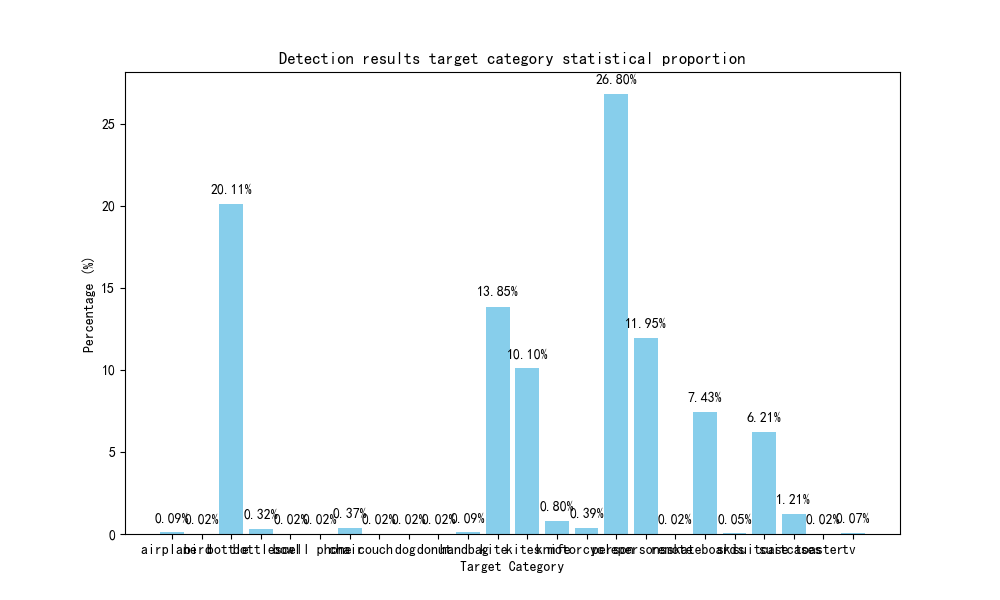
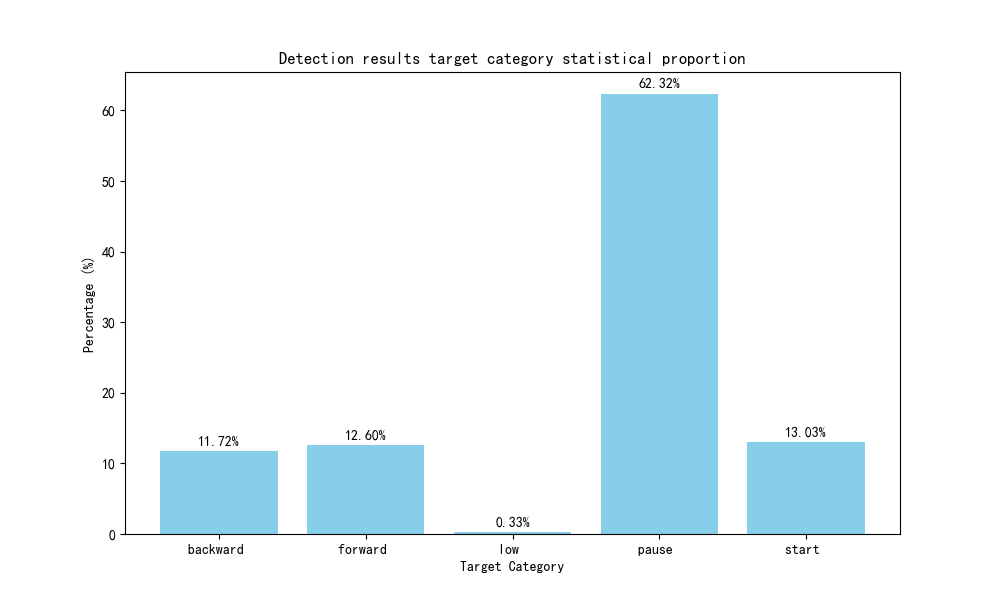
后端与数据库

diff --git a/backend/server.py b/backend/server.py
@@ -2,10 +2,18 @@ from flask import Flask, request, jsonify, Response
 import jwt
 from jwt.exceptions import ExpiredSignatureError, InvalidTokenError
 import cv2
+from sqlalchemy import create_engine
+from sqlalchemy.orm import sessionmaker
+
+from data.models import GestureMap, OperationLog, DeviceTypeEnum, ResultEnum
 
 flask_app = Flask(__name__)
 SECRET_KEY = 'SGMS_Secret_Key'
 
+# 创建数据库引擎和会话（请根据实际数据库修改 URL）
+DATABASE_URL = 'sqlite:///data/database.db'  # 你可以换成 'mysql://user:pass@host/db' 等
+engine = create_engine(DATABASE_URL, echo=True)
+SessionLocal = sessionmaker(bind=engine)
 
 camera = cv2.VideoCapture(0)
 
@@ -55,8 +63,48 @@ def upload_result():
     data = request.get_json()
     print("接收到检测结果:", data)
 
-    # 假设数据格式：{"objects": [{"label": "person", "confidence": 0.98}, ...]}
-    return jsonify({"message": "检测结果上传成功"}), 200
+    gesture_labels = {
+        "start": 0,
+        "pause": 1,
+        "forward": 2,
+        "backward": 3,
+        "high": 4,
+        "low": 5
+    }
+
+    session = SessionLocal()
+    try:
+        # 获取检测结果 格式为{"xxx": 1}
+        gesture_name = list(data.keys())[0] if data else None
+        gesture_name = gesture_name.strip() if gesture_name else None
+        print("检测到的手势:", gesture_name)
+
+        if not gesture_name:
+            return jsonify({"error": "未知手势"}), 400
+
+        # 查找 gesture_id 和操作类型
+        gesture = session.query(GestureMap).filter_by(gesture_name=gesture_name).first()
+        if not gesture:
+            return jsonify({"error": "手势未注册"}), 404
+
+        # 写入 operation_log
+        log = OperationLog(
+            gesture_id=gesture_labels[gesture_name],  # 假设 gesture_name 对应的 ID
+            operation_type=gesture.operation_type,
+            device_type=DeviceTypeEnum.tv,  # 可根据实际需求动态指定
+            result=ResultEnum.success,  # 假设检测成功
+            detail=f"检测到手势：{gesture_name}"
+        )
+        session.add(log)
+        session.commit()
+
+        return jsonify({"message": f"手势“{gesture_name}”记录成功"}), 200
+    except Exception as e:
+        session.rollback()
+        print("数据库写入出错:", e)
+        return jsonify({"error": "服务端异常"}), 500
+    finally:
+        session.close()
 
 
 @flask_app.route('/')

diff --git a/data/db_init.py b/data/db_init.py
@@ -1,5 +1,60 @@
 from sqlalchemy import create_engine
-from models import Base
+from sqlalchemy.orm import sessionmaker
+from models import Base, GestureMap, OperationTypeEnum
+from datetime import datetime
 
-engine = create_engine("sqlite:///database.db", echo=True)
-Base.metadata.create_all(engine)
+
+# 手势初始数据
+gesture_data = [
+    {"gesture_name": "start", "operation_type": OperationTypeEnum.click, "operation_param": "start"},
+    {"gesture_name": "pause", "operation_type": OperationTypeEnum.click, "operation_param": "pause"},
+    {"gesture_name": "forward", "operation_type": OperationTypeEnum.swipe, "operation_param": "next"},
+    {"gesture_name": "backward", "operation_type": OperationTypeEnum.swipe, "operation_param": "prev"},
+    {"gesture_name": "high", "operation_type": OperationTypeEnum.zoom, "operation_param": "increase"},
+    {"gesture_name": "low", "operation_type": OperationTypeEnum.zoom, "operation_param": "decrease"},
+]
+
+
+# 插入数据
+def init_gestures():
+    session = SessionLocal()
+    try:
+        for item in gesture_data:
+            exists = session.query(GestureMap).filter_by(gesture_name=item["gesture_name"]).first()
+            if not exists:
+                gesture = GestureMap(
+                    gesture_name=item["gesture_name"],
+                    operation_type=item["operation_type"],
+                    operation_param=item["operation_param"],
+                    created_at=datetime.utcnow()
+                )
+                session.add(gesture)
+        session.commit()
+        print("✅ 手势初始化完成")
+    except Exception as e:
+        session.rollback()
+        print("❌ 初始化出错:", e)
+    finally:
+        session.close()
+
+
+if __name__ == "__main__":
+    # 如果数据库文件存在，则删除
+    import os
+    if os.path.exists('database.db'):
+        os.remove('database.db')
+        print("✅ 删除旧数据库文件")
+    else:
+        print("❌ 数据库文件不存在")
+
+    # 数据库连接地址，根据你的配置修改
+    DATABASE_URL = 'sqlite:///database.db'  # SQLite 本地数据库文件
+
+    # 初始化数据库连接
+    engine = create_engine(DATABASE_URL, echo=True)
+    SessionLocal = sessionmaker(bind=engine)
+
+    # 创建所有表（如果尚未创建）
+    Base.metadata.create_all(engine)
+
+    init_gestures()

diff --git a/cv_module/yolov8/YOLOThread.py b/cv_module/yolov8/YOLOThread.py
@@ -46,11 +46,10 @@ class LatestResultUploader:
 
                 try:
                     response = requests.post(self.url, json=result_to_send, timeout=1)  # 设置超时为1秒
-                    # print("上传成功:", response.status_code)
                 except Exception as e:
                     print("上传失败:", e)
 
-            time.sleep(0.05)  # 控制发送频率（20次/秒）
+            time.sleep(0.1)
 
 
 uploader = LatestResultUploader('http://localhost:5000/result')
@@ -104,7 +103,7 @@ class YOLOThread(QThread):
         self.imgsz = 640
         self.device = ''
         self.dataset = None
-        self.task = 'detect'
+        self.task = 'classify'
         self.dnn = False
         self.half = False
         self.agnostic_nms = False
@@ -424,24 +423,33 @@ class YOLOThread(QThread):
 
     def postprocess(self, preds, img, orig_imgs):
         """Post-processes predictions and returns a list of Results objects."""
-        preds = ops.non_max_suppression(
-            preds,
-            self.conf_thres,
-            self.iou_thres,
-            agnostic=self.agnostic_nms,
-            max_det=self.max_det,
-            classes=self.classes,
-        )
+        if not 'cls' in self.current_model_name:
+            preds = ops.non_max_suppression(
+                preds,
+                self.conf_thres,
+                self.iou_thres,
+                agnostic=self.agnostic_nms,
+                max_det=self.max_det,
+                classes=self.classes,
+            )
 
         if not isinstance(orig_imgs, list):  # input images are a torch.Tensor, not a list
             orig_imgs = ops.convert_torch2numpy_batch(orig_imgs)
 
         results = []
+
+        if 'cls' in self.current_model_name:
+            a = preds[0].cpu().numpy().tolist()[0]
+            class_index = a.index(max(a))
+            conf = a[class_index]
+            preds = [torch.Tensor([[0, 0, 1, 1, conf, class_index]])]
+
         for i, pred in enumerate(preds):
             orig_img = orig_imgs[i]
             pred[:, :4] = ops.scale_boxes(img.shape[2:], pred[:, :4], orig_img.shape)
             img_path = self.batch[0][i]
             results.append(Results(orig_img, path=img_path, names=self.model.names, boxes=pred))
+
         return results
 
     def preprocess(self, im):

diff --git a/frontend/BaseWindow.py b/frontend/BaseWindow.py
@@ -27,7 +27,7 @@ from frontend.utils.logger import LoggerUtils
 
 glo.init()
 glo.set_value('yoloname', "yolov8 yolov11"
-                          "yolov8-seg yolov11-seg yolov8-pose yolov8-obb yolov11-obb yolov11-pose"
+                          ""
                           "")
 
 GLOBAL_WINDOW_STATE = True
@@ -36,15 +36,11 @@ WIDTH_LEFT_BOX_EXTENDED = 200
 WIDTH_SETTING_BAR = 290
 WIDTH_LOGO = 60
 WINDOW_SPLIT_BODY = 20
-KEYS_LEFT_BOX_MENU = ['src_menu', 'src_setting', 'src_webcam', 'src_folder', 'src_camera']
+KEYS_LEFT_BOX_MENU = ['src_menu', 'src_webcam', 'src_folder', 'src_camera']
 # 模型名称和线程类映射
 MODEL_THREAD_CLASSES = {
     "yolov8": YOLOThread,
     "yolov11": YOLOv11Thread,
-    "yolov8-seg": YOLOSegThread,
-    "yolov11-seg": YOLOv11SegThread,
-    "yolov8-pose": YOLOPoseThread,
-    "yolov11-pose": YOLOv11PoseThread,
 }
 # 扩展MODEL_THREAD_CLASSES字典
 MODEL_NAME_DICT = list(MODEL_THREAD_CLASSES.items())
